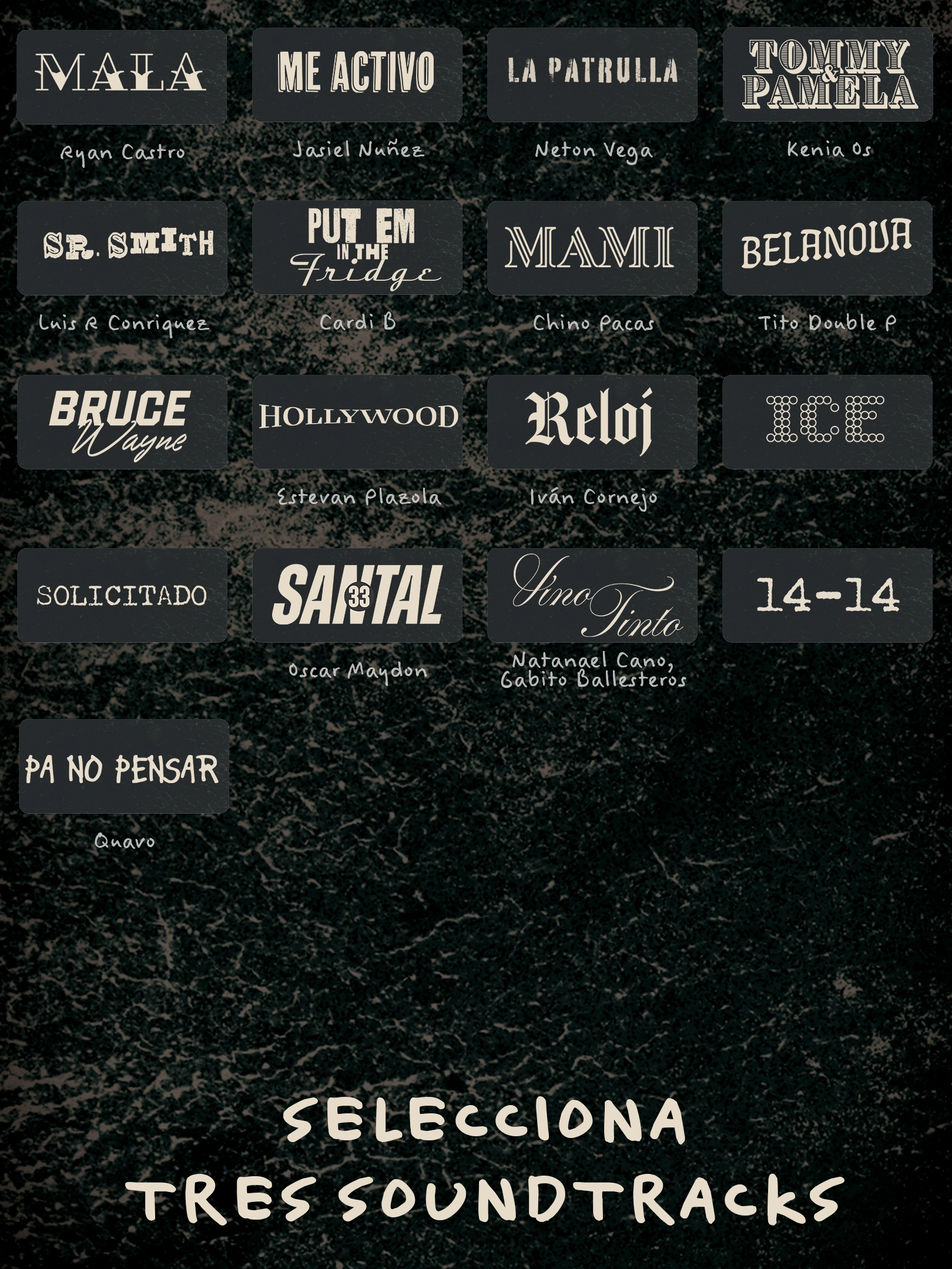
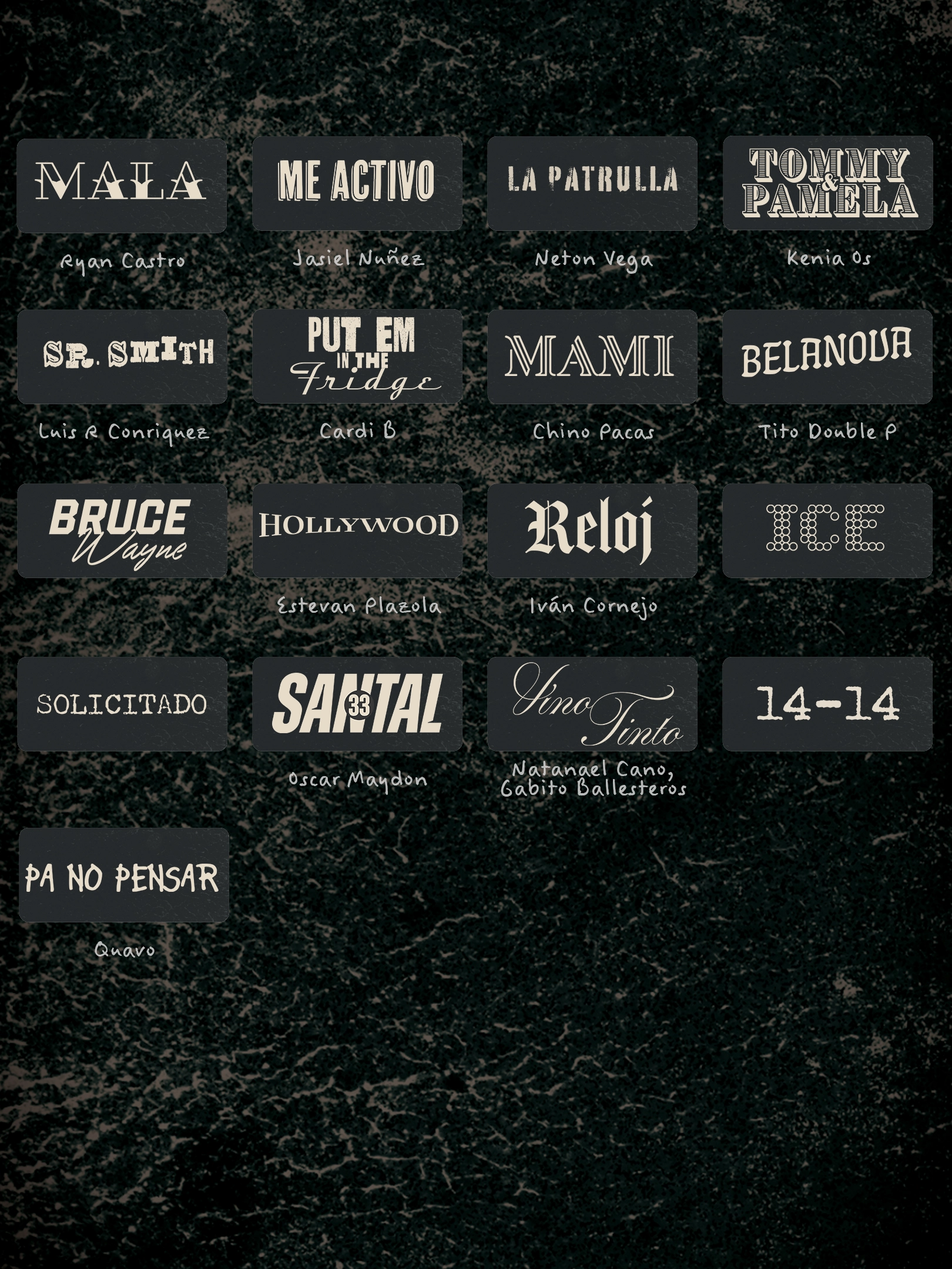
changes screen three

diff --git a/src/App.tsx b/src/App.tsx
@@ -27,6 +27,10 @@ function App() {
     facingMode: 'user',
   };
 
+  const audioConstraints = {
+    echoCancellation: true,
+  };
+
   const TYPE_LISTENER = 'dataavailable';
 
   const renderScreen = ( ) => {
@@ -69,7 +73,7 @@ function App() {
       case 3://screen three [ OK ]
         return(
           <div
-            className={`screen ${ screenActive === 3 && 'active' } three${lang}`}
+            className={`screen ${ screenActive === 3 && 'active' } three`}
           >
             <div className="grid-sound-track">
               <div className={`sound-track ${soundTrack.includes(1) && 'track-selected'}`} onClick={() => { handleAddTrack(1); }}></div>
@@ -238,7 +242,7 @@ function App() {
     if (webcamRef.current && webcamRef.current.stream) {
       console.log("Start Recording");
       mediaRecorderRef.current = new MediaRecorder(webcamRef.current.stream, {
-        mimeType: 'video/webm;codecs=vp9',
+        mimeType: 'video/webm',
       });
       mediaRecorderRef.current.addEventListener(
         TYPE_LISTENER,
@@ -372,7 +376,7 @@ function App() {
     <div className="container">
       {renderScreen()}
       {screenActive >= 3 &&
-      <div className='webcam-container' style={{zIndex:screenActive === 5 ? '1' : '-1'}}>
+      <div className='webcam-container' >
         <Webcam
           width={'100%'}
           height={'100%'}
@@ -380,7 +384,7 @@ function App() {
           audio
           ref={webcamRef}
           videoConstraints={videoConstraints}
-          audioConstraints
+          audioConstraints={audioConstraints}
         />
       </div>
       }

diff --git a/src/App.css b/src/App.css
@@ -101,17 +101,13 @@
   position: absolute;
   /* border: solid 1px gray; */
   width: 14rem;
-height: 5rem;
-bottom: 1rem;
-right: 1rem;
+  height: 5rem;
+  bottom: 1rem;
+  right: 1rem;
 }
 
 .three{
   background-image: url('/3.webp');
-}
-
-.threeen{
-  background-image: url('/3en.webp');
 }
 
 .grid-sound-track{
@@ -121,6 +117,7 @@ right: 1rem;
   align-items: center;
   flex-wrap: wrap;
   justify-content: space-around;
+  margin-top: 6rem;
 }
 
 .sound-track{
@@ -142,16 +139,16 @@ right: 1rem;
   width: 100%;
   background-size: contain;
   background-position: center;
-  /* background-repeat: no-repeat; */
-  background-image: url('/back.webp');
+  /* background-repeat: no-repeat; 
+  background-image: url('/back.webp');*/
   font-family: 'UncerFelt', 'FeltWoman';
   text-transform: uppercase;
   text-align: center;
   font-size: 3.5rem;
   font-weight: 700;
   position: absolute;
-  /* bottom: .5rem; */
-  height: 25rem;
+  bottom: 2rem;
+  height: 12rem;
   color: #e6dcca;
 }
 
